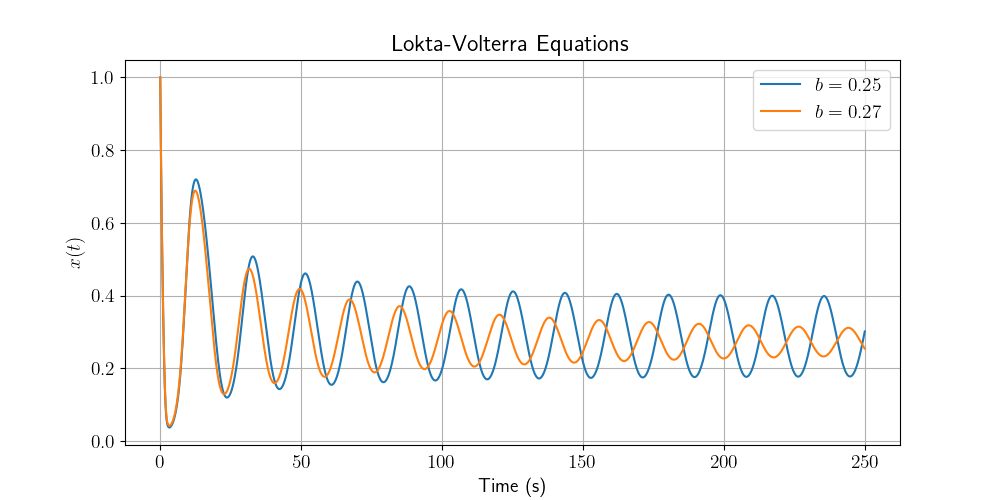
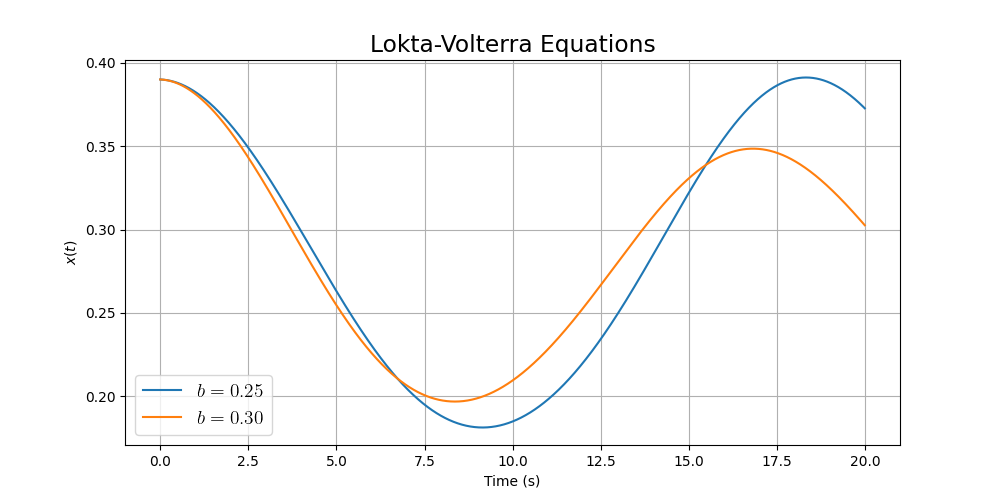
Plotted period cycle

diff --git a/week15.py b/week15.py
@@ -30,20 +30,20 @@ def week15_excersises():
         
         return dxdt, dydt
 
-
-    # x1, t1 = nm.solve_to(lambda t, x, y: lokta_volterra(t, x, y, 0.25), (1 , 1), 0, 250, 0.01, "Euler")
-    # x2, t2 = nm.solve_to(lambda t, x, y: lokta_volterra(t, x, y, 0.27), (1 , 1), 0, 250, 0.01, "Euler")
+    x1, t1 = nm.solve_to(lambda t, x, y: lokta_volterra(t, x, y, 0.25), (0.39 , 0.30), 0, 20, 0.01, "Euler")
+    x2, t2 = nm.solve_to(lambda t, x, y: lokta_volterra(t, x, y, 0.30), (0.39 , 0.30), 0, 20, 0.01, "Euler")
     
-    # plt.figure(1, figsize=(10, 5))
-    # plt.plot(t1, x1[0], label="$b = 0.25$")
-    # plt.plot(t2, x2[0], label="$b = 0.27$")
-    # nm.graph_format("Time (s)", "$x(t)$", "Lokta-Volterra Equations", "Lokta_Volterra")
+    plt.figure(1, figsize=(10, 5))
+    plt.plot(t1, x1[0], label="$b = 0.25$")
+    plt.plot(t2, x2[0], label="$b = 0.30$")
+    nm.graph_format("Time (s)", "$x(t)$", "Lokta-Volterra Equations", "Lokta_Volterra")
 
-    # plt.figure(2, figsize=(10, 5))
-    # plt.plot(x1[0], x1[1], label="$b = 0.25$")
-    # plt.plot(x2[0], x2[1], label="$b = 0.27$")
-    # nm.graph_format("$x(t)$", "$\dot{x}(t)$", "Lokta-Volterra Equations", "Lokta_Volterra_Cycle")
+    plt.figure(2, figsize=(10, 5))
+    plt.plot(x1[0], x1[1], label="$b = 0.25$")
+    plt.plot(x2[0], x2[1], label="$b = 0.30$")
+    nm.graph_format("$x(t)$", "$\dot{x}(t)$", "Lokta-Volterra Equations", "Lokta_Volterra_Cycle")
     
+    # I.C (0.39, 0.30) produces limit cycle period of ~19s (b = 0.25)
     
     def num_shooting(u):
         x, y, t = u
@@ -57,14 +57,25 @@ def week15_excersises():
         
         return f1, f2, p
     
-    # sol, time = nm.solve_to(lambda t, x, y: lokta_volterra(t, x, y, 0.25), (0.39 , 0.30), 0, 19, 0.01, "RK4Second")
-    # plt.plot(time, sol[0])
-    # plt.plot(sol[0], sol[1])
-    # plt.show()
-    
-    x, info, ier, mesg = fsolve(num_shooting, [0.39, 0.30, 19], full_output=True)
+    x0 = [0.39, 0.30, 19]
+    x0, info, ier, msg = fsolve(num_shooting, x0, full_output=True)
     if ier == 1:
-        print(f"Root finder found the solution x={x} after {info['nfev']} function calls; the norm of the final residual is {np.linalg.norm(info['fvec'])}")         
+        print(f"Root finder found the solution x={x0} after {info['nfev']} function calls; the norm of the final residual is {np.linalg.norm(info['fvec'])}")         
+    else:
+        print(f"Root finder failed with error message: {msg}")
+        return
     
+    x0 = np.around(x0, decimals=3)
+    x, t = nm.solve_to(lambda t, x, y: lokta_volterra(t, x, y, 0.25), (x0[0] , x0[1]), 0, x0[2], 0.01, "Euler")
+    
+    plt.figure(3, figsize=(10, 5))
+    plt.plot(t, x[0], label="$b = 0.25$")
+    nm.graph_format("Time (s)", "$x(t)$", "Lokta-Volterra Equations", "Lokta_Volterra_Exact")
+    
+    plt.figure(4, figsize=(10, 5))
+    plt.plot(x[0], x[1], label="$b = 0.25$")
+    nm.graph_format("$x(t)$", "$\dot{x}(t)$", "Lokta-Volterra Equations", "Lokta_Volterra_Cycle_Exact")
+
+
 
 week15_excersises()
